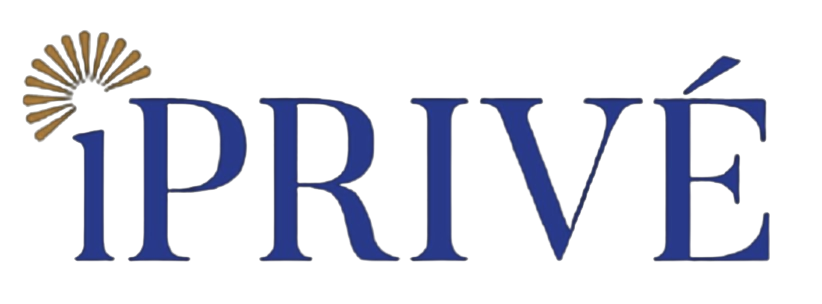
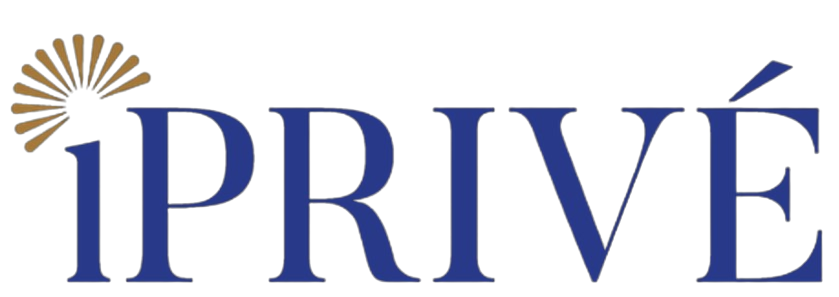
new9

Changed region(s): [[0.0, 0.0909, 1.0, 0.9697]]

diff --git a/app/trump/page.tsx b/app/trump/page.tsx
@@ -33,7 +33,7 @@ export default function CitizenshipGlobalMobilitySolutions() {
             <div className="w-full max-w-4xl mx-auto lg:mx-0">
               <div className="text-center lg:text-left px-2 sm:px-0">
                 <h1 className="text-4xl sm:text-5xl md:text-6xl font-semibold text-white mb-3 sm:mb-4 leading-tight [text-shadow:_0_2px_4px_rgba(0,0,0,0.5)]">
-                  <span className="block">Trump Gold Card Advisory</span>
+                  <span className="block">USA Gold Card Advisory</span>
                   <span className="block text-2xl sm:text-3xl md:text-4xl font-medium mt-3 sm:mt-4 text-white [text-shadow:_0_2px_4px_rgba(0,0,0,0.5)]">
                     Exclusive Access. Privileged Living.
                     <br />
@@ -50,13 +50,13 @@ export default function CitizenshipGlobalMobilitySolutions() {
       <section className="py-12 sm:py-16 md:py-20 px-4 sm:px-6 lg:px-8">
         <div className="max-w-5xl mx-auto text-center">
           <h2 className="text-2xl sm:text-3xl font-bold text-gray-900 mb-6 sm:mb-8">
-            Trump Gold Card Advisory
+            USA Gold Card Advisory
           </h2>
           <div className="space-y-4 sm:space-y-6">
             <p className="text-base sm:text-lg text-gray-600 leading-relaxed">
               At IPRIVE Global Private Wealth, we believe wealth isn't just
               measured in numbers — it's expressed through access, influence,
-              and rare privileges reserved for the world's elite. The Trump Gold
+              and rare privileges reserved for the world's elite. The USA Gold
               Card Advisory is an exclusive, invitation-based service for our
               global clientele, offering bespoke wealth benefits, lifestyle
               privileges, and preferential opportunities under the distinguished
@@ -127,7 +127,7 @@ export default function CitizenshipGlobalMobilitySolutions() {
       <section className="py-12 sm:py-16 md:py-20 px-4 sm:px-6 lg:px-8">
         <div className="max-w-3xl mx-auto">
           <h2 className="text-2xl sm:text-3xl font-bold text-center text-gray-900 mb-8 sm:mb-12">
-            Why Choose IPRIVE Trump Gold Card Advisory?
+            Why Choose IPRIVE USA Gold Card Advisory?
           </h2>
 
           <div className="space-y-4">
@@ -158,7 +158,7 @@ export default function CitizenshipGlobalMobilitySolutions() {
             For the Few Who Lead the World.
           </h2>
           <p className="text-lg sm:text-xl text-gray-700">
-            Trump Advisory by IPRIVE is not just a membership — it's a statement
+            USA Advisory by IPRIVE is not just a membership — it's a statement
             of success, a passport to influence, and a gateway to a life lived
             at the highest standards of excellence.
           </p>

diff --git a/components/footer.tsx b/components/footer.tsx
@@ -15,17 +15,19 @@ export default function Footer() {
         <div className="grid grid-cols-1 md:grid-cols-4 gap-8">
           {/* Company Info */}
           <div>
-            {/* Logo Stack - Trustmore logo and the golden logo (ft2.png) side by side */}
+            {/* Logo Stack - Adjusted positioning */}
             <div className="flex flex-row gap-3 mb-4 items-center">
-              {/* Trustmore logo clickable */}
-              <div className="h-12 w-auto">
-                <Link href="/">
-                  <img
-                    src="/ft01.png"
-                    alt="Trustmore Logo"
-                    className="h-full w-auto object-contain max-w-[180px]"
-                  />
-                </Link>
+              {/* Trustmore logo clickable - Positioned slightly higher and larger */}
+              <div className="relative">
+                <div className="relative -top-1">
+                  <Link href="/">
+                    <img
+                      src="/ft01.png"
+                      alt="Trustmore Logo"
+                      className="h-12 w-auto object-contain max-w-[180px]"
+                    />
+                  </Link>
+                </div>
               </div>
 
               {/* Golden logo - non-clickable */}
@@ -44,7 +46,7 @@ export default function Footer() {
                 Where Generations Prosper. Where Legacies Endure. Exclusively
                 Curated for the World's Most Discerning Families.
                 <br />
-                [Powered by Trustmore Group – 25 Years of Heritage]
+                Powered by Trustmore Group – 25 Years of Heritage
               </p>
             </div>
 
@@ -163,7 +165,7 @@ export default function Footer() {
           </div>
 
           {/* Helpful Links Section (Now in second position) */}
-          <div className="md:ml-4">
+          <div className="md:ml-8">
             <h3 className="text-base font-bold text-gray-900 mb-2">
               Helpful Links
             </h3>
@@ -191,7 +193,7 @@ export default function Footer() {
                     href={href}
                     className={`font-medium text-sm ${
                       pathname === href ? "text-black" : "text-gray-700"
-                    }`}
+                    } whitespace-nowrap`}
                   >
                     {label}
                   </Link>
@@ -200,8 +202,8 @@ export default function Footer() {
             </ul>
           </div>
 
-          {/* Quick Links Section (First Half) */}
-          <div className="md:ml-4">
+          {/* Quick Links Section (First Half) - Added ml-4 for more spacing */}
+          <div className="md:ml-20">
             <h3 className="text-base font-bold text-gray-900 mb-2">
               Quick Links
             </h3>

diff --git a/components/header.tsx b/components/header.tsx
@@ -59,29 +59,33 @@ export function Header() {
     >
       <div className="container mx-auto px-4 sm:px-6 lg:px-8">
         <div className="flex items-center justify-between py-4">
-          {/* Logos with explicit margin */}
-          <div className="flex items-center">
-            <Link href="/">
-              <Image
-                src="/ft01.png"
-                alt="Logo"
-                width={180}
-                height={50}
-                className="h-10 w-auto"
-              />
+          {/* Logos with adjusted size and position */}
+          <div className="flex items-center space-x-6">
+            <Link href="/" className="flex items-center relative">
+              <div className="relative -top-1">
+                <Image
+                  src="/ft01.png"
+                  alt="Logo"
+                  width={200}
+                  height={55}
+                  className="h-12 w-auto object-contain"
+                  priority
+                />
+              </div>
             </Link>
-            <div className="w-8"></div> {/* Explicit spacer element */}
             <a
               href="http://iTrustmore.com"
               target="_blank"
               rel="noopener noreferrer"
+              className="flex items-center h-10"
             >
               <Image
                 src="/ft2.png"
                 alt="Trustmore Logo"
                 width={180}
                 height={50}
-                className="h-10 w-auto"
+                className="h-10 w-auto object-contain"
+                priority
               />
             </a>
           </div>

diff --git a/components/services-tabs.tsx b/components/services-tabs.tsx
@@ -85,7 +85,7 @@ export default function ServicesTabs() {
             <circle cx="12" cy="7" r="4" />
           </svg>
         ),
-        title: "Trust Formation & Legacy Planning",
+        title: "Trust Formation",
         description:
           "Preserve and protect your wealth for generations with our expert trust structures, estate planning services, and family office solutions. Confidential, compliant, and crafted with absolute care for your family's future.",
         path: "/trust",
@@ -163,7 +163,7 @@ export default function ServicesTabs() {
             <path d="M12 8v8" />
           </svg>
         ),
-        title: "Trump Gold Card Advisory",
+        title: "USA Gold Card Advisory",
         description:
           "A distinctive program for ultra-high-net-worth individuals seeking unmatched privileges — from curated experiences to personal concierge banking and strategic access to top-tier financial and luxury services worldwide.",
         path: "/trump",
@@ -314,7 +314,7 @@ export default function ServicesTabs() {
             <path d="M12 8v8" />
           </svg>
         ),
-        title: "Trump Gold Card Advisory",
+        title: "USA Gold Card Advisory",
         description:
           "A distinctive program for ultra-high-net-worth individuals seeking unmatched privileges — from curated experiences to personal concierge banking and strategic access to top-tier financial and luxury services worldwide.",
         path: "/trump",

diff --git a/app/trust/page.tsx b/app/trust/page.tsx
@@ -34,7 +34,7 @@ export default function LegacyPlanning() {
               <div className="text-center lg:text-left px-2 sm:px-0">
                 <h1 className="text-4xl sm:text-5xl md:text-6xl font-semibold text-white mb-3 sm:mb-4 leading-tight [text-shadow:_0_2px_4px_rgba(0,0,0,0.5)]">
                   <span className="block">
-                    Legacy Planning, Trust Formation & Executive Protection
+                    Trust Formation & Executive Protection
                   </span>
                   <span className="block text-2xl sm:text-3xl md:text-4xl font-medium mt-3 sm:mt-4 text-white [text-shadow:_0_2px_4px_rgba(0,0,0,0.5)]">
                     Preserving Wealth, Protecting Futures, and Securing
@@ -51,7 +51,7 @@ export default function LegacyPlanning() {
       <section className="py-12 sm:py-16 md:py-20 px-4 sm:px-6 lg:px-8">
         <div className="max-w-5xl mx-auto text-center">
           <h2 className="text-2xl sm:text-3xl font-bold text-gray-900 mb-6 sm:mb-8">
-            Legacy Planning, Trust Formation & Executive Protection
+            Trust Formation & Executive Protection
           </h2>
           <div className="space-y-4 sm:space-y-6">
             <p className="text-base sm:text-lg text-gray-600 leading-relaxed">

diff --git a/app/contact/page.tsx b/app/contact/page.tsx
@@ -10,11 +10,12 @@ export default function ContactUs() {
         <MapPin className="w-5 h-5 text-[oklch(0.257_0.09_281.288)] mt-1" />
       ),
       details: [
-        "1617 & 1618, Level 16, Emaar Digital Greens",
-        "Sector 61, Gurugram 122002, Haryana",
+        "Ground Floor, 7A, Standard Chartered Tower",
+        "DLF Cyber City, DLF Phase 2, Sector 24",
+        "Gurugram, Haryana 122001",
       ],
       mapUrl:
-        "https://www.google.com/maps/embed?pb=!1m18!1m12!1m3!1d3508.073981346786!2d77.0918133150786!3d28.44985898248704!2m3!1f0!2f0!3f0!3m2!1i1024!2i768!4f13.1!3m3!1m2!1s0x390d18f5f5e5e5e5%3A0x5e5e5e5e5e5e5e5!2sEmaar%20Digital%20Greens%2C%20Sector%2061%2C%20Gurugram%2C%20Haryana%20122002!5e0!3m2!1sen!2sin",
+        "https://www.google.com/maps/embed?pb=!1m18!1m12!1m3!1d3509.942780899109!2d77.09392331507731!3d28.49624808250033!2m3!1f0!2f0!3f0!3m2!1i1024!2i768!4f13.1!3m3!1m2!1s0x390d1f8b13f1e0a5%3A0x9d3b6e5b6e5b6e5b!2sStandard%20Chartered%20Tower%2C%20DLF%20Cyber%20City%2C%20DLF%20Phase%202%2C%20Sector%2024%2C%20Gurugram%2C%20Haryana%20122001!5e0!3m2!1sen!2sin",
       phone: "+919810336644",
       email: "care@itrustmore.com",
     },

diff --git a/app/team/page.tsx b/app/team/page.tsx
@@ -68,17 +68,14 @@ export default function TeamPage() {
             </p>
             <p className="text-base sm:text-lg text-gray-600 leading-relaxed">
               We invite you to meet the people who bring the IPRIVE vision to
-              life.
-            </p>
-            <div className="flex justify-center mt-8">
-              <Link
+              life. Learn more about our legacy through{" "}
+              <a
                 href="https://itrustmore.com/about"
-                className="inline-flex items-center px-6 py-3 border border-transparent text-base font-medium rounded-md shadow-sm text-gray-800 bg-white hover:bg-[#f9f7f4] transition-colors border border-gray-200"
+                className="text-blue-600 hover:text-blue-800 hover:underline"
               >
-                Learn more about our legacy through Trustmore Group
-                <ArrowRight className="ml-2 h-4 w-4" />
-              </Link>
-            </div>
+                Trustmore Group
+              </a>
+            </p>
           </div>
         </div>
       </section>

diff --git a/app/private/page.tsx b/app/private/page.tsx
@@ -164,11 +164,10 @@ export default function HighValuePrivateInvestments() {
           </h2>
           <p className="text-lg sm:text-xl text-gray-700">
             For over 25 years, Trustmore Group has built a reputation for
-            integrity, discretion, and performance-driven advisory.
-            <br className="hidden sm:inline" />
-            At IPRIVE, we extend this legacy to the private investment space —
-            connecting you to a curated world of opportunities where capital
-            meets credibility.
+            integrity, discretion, and performance-driven advisory. At IPRIVE,
+            we extend this legacy to the private investment space — connecting
+            you to a curated world of opportunities where capital meets
+            credibility.
           </p>
           <div className="space-y-4 sm:space-y-6 mt-6">
             <p className="text-base sm:text-lg text-gray-600 leading-relaxed">

diff --git a/app/startup/page.tsx b/app/startup/page.tsx
@@ -166,8 +166,8 @@ export default function StartupVentureCapitalAdvisory() {
           </h2>
           <p className="text-lg sm:text-xl text-gray-700">
             Whether you're a seasoned private investor, a forward-thinking board
-            member, or a family office visionary, IPRIVE Global Private Wealth
-            ensures you're not just participating in the future —{" "}
+            member, or a family office visionary, IPRIVE Global ensures you're
+            not just participating in the future —{" "}
             <span className="font-semibold">you're shaping it</span>.
           </p>
           <div className="mt-8">

diff --git a/app/citizenship/page.tsx b/app/citizenship/page.tsx
@@ -159,7 +159,7 @@ export default function CitizenshipGlobalMobilitySolutions() {
       <section className="py-12 sm:py-16 md:py-20 px-4 sm:px-6 lg:px-8 bg-[#f9f7f4]">
         <div className="max-w-5xl mx-auto text-center px-4 sm:px-6 lg:px-8">
           <h2 className="text-3xl sm:text-4xl font-semibold text-gray-900 leading-relaxed mb-8">
-            Because your passport should be as limitless as your ambition.
+            Your passport should be as limitless as your ambition.
           </h2>
           <p className="text-lg sm:text-xl text-gray-700">
             Whether you seek global business expansion, secure asset relocation,

diff --git a/app/page.tsx b/app/page.tsx
@@ -107,7 +107,7 @@ export default function Home() {
               </div>
               <div className="order-1 md:order-2">
                 <h2 className="text-4xl sm:text-5xl font-semibold mb-6 text-[oklch(0.257_0.09_281.288)] leading-tight">
-                  Why IPRIVE?
+                  Why IPRIVE Global?
                 </h2>
                 <p className="text-lg text-gray-600 mb-6 leading-relaxed">
                   25-Year Trustmore Legacy of excellence, transparency, and
